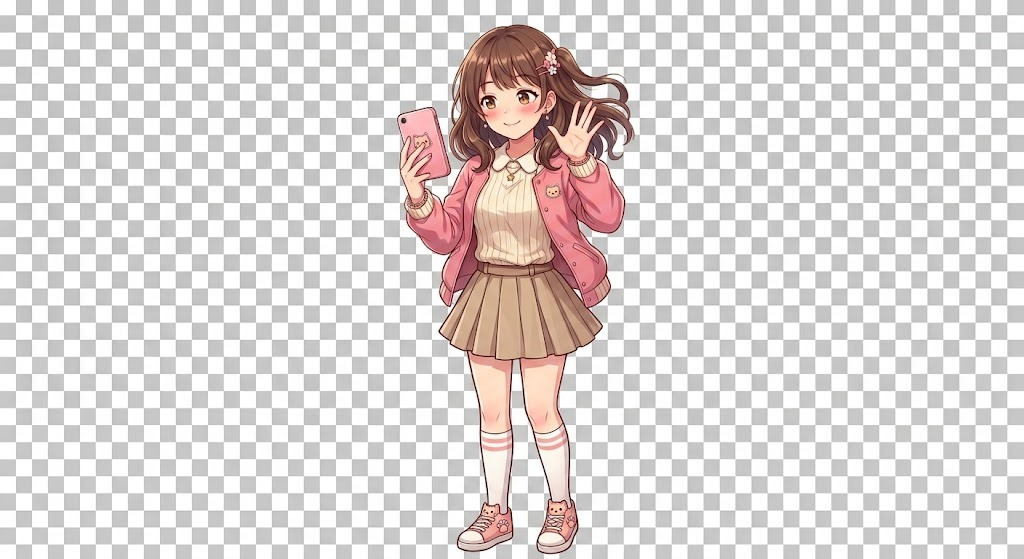
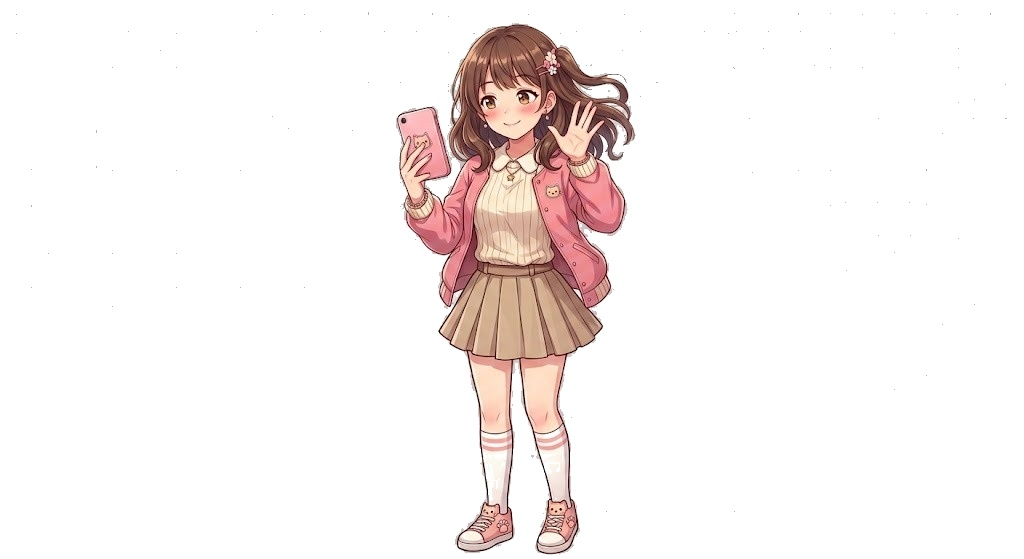
Add stock photos to WhyChoose and BottomBanner sections

diff --git a/components/WhyChoose.tsx b/components/WhyChoose.tsx
@@ -40,7 +40,7 @@ const reasonsData = [
 export default function WhyChoose() {
   return (
     <div className="w-full max-w-5xl mx-auto mt-16 px-4 pb-12 text-center">
-      
+
       {/* Bölüm Başlığı */}
       <h2 className="text-3xl font-bold text-gray-800 mb-12">
         Why Choose Omegletest Online?
@@ -49,13 +49,13 @@ export default function WhyChoose() {
       {/* md:grid-cols-3 ile yan yana 3'lü dizilim */}
       <div className="grid grid-cols-1 md:grid-cols-3 gap-6">
         {reasonsData.map((reason, index) => (
-          <div 
+          <div
             key={index}
             className="bg-white p-6 rounded-xl shadow border border-gray-100 flex flex-col items-center hover:-translate-y-1 transition-transform duration-300"
           >
             {/* İkon Konteyneri */}
             <div className="mb-6">
-                {reason.icon}
+              {reason.icon}
             </div>
 
             {/* Metin İçeriği */}